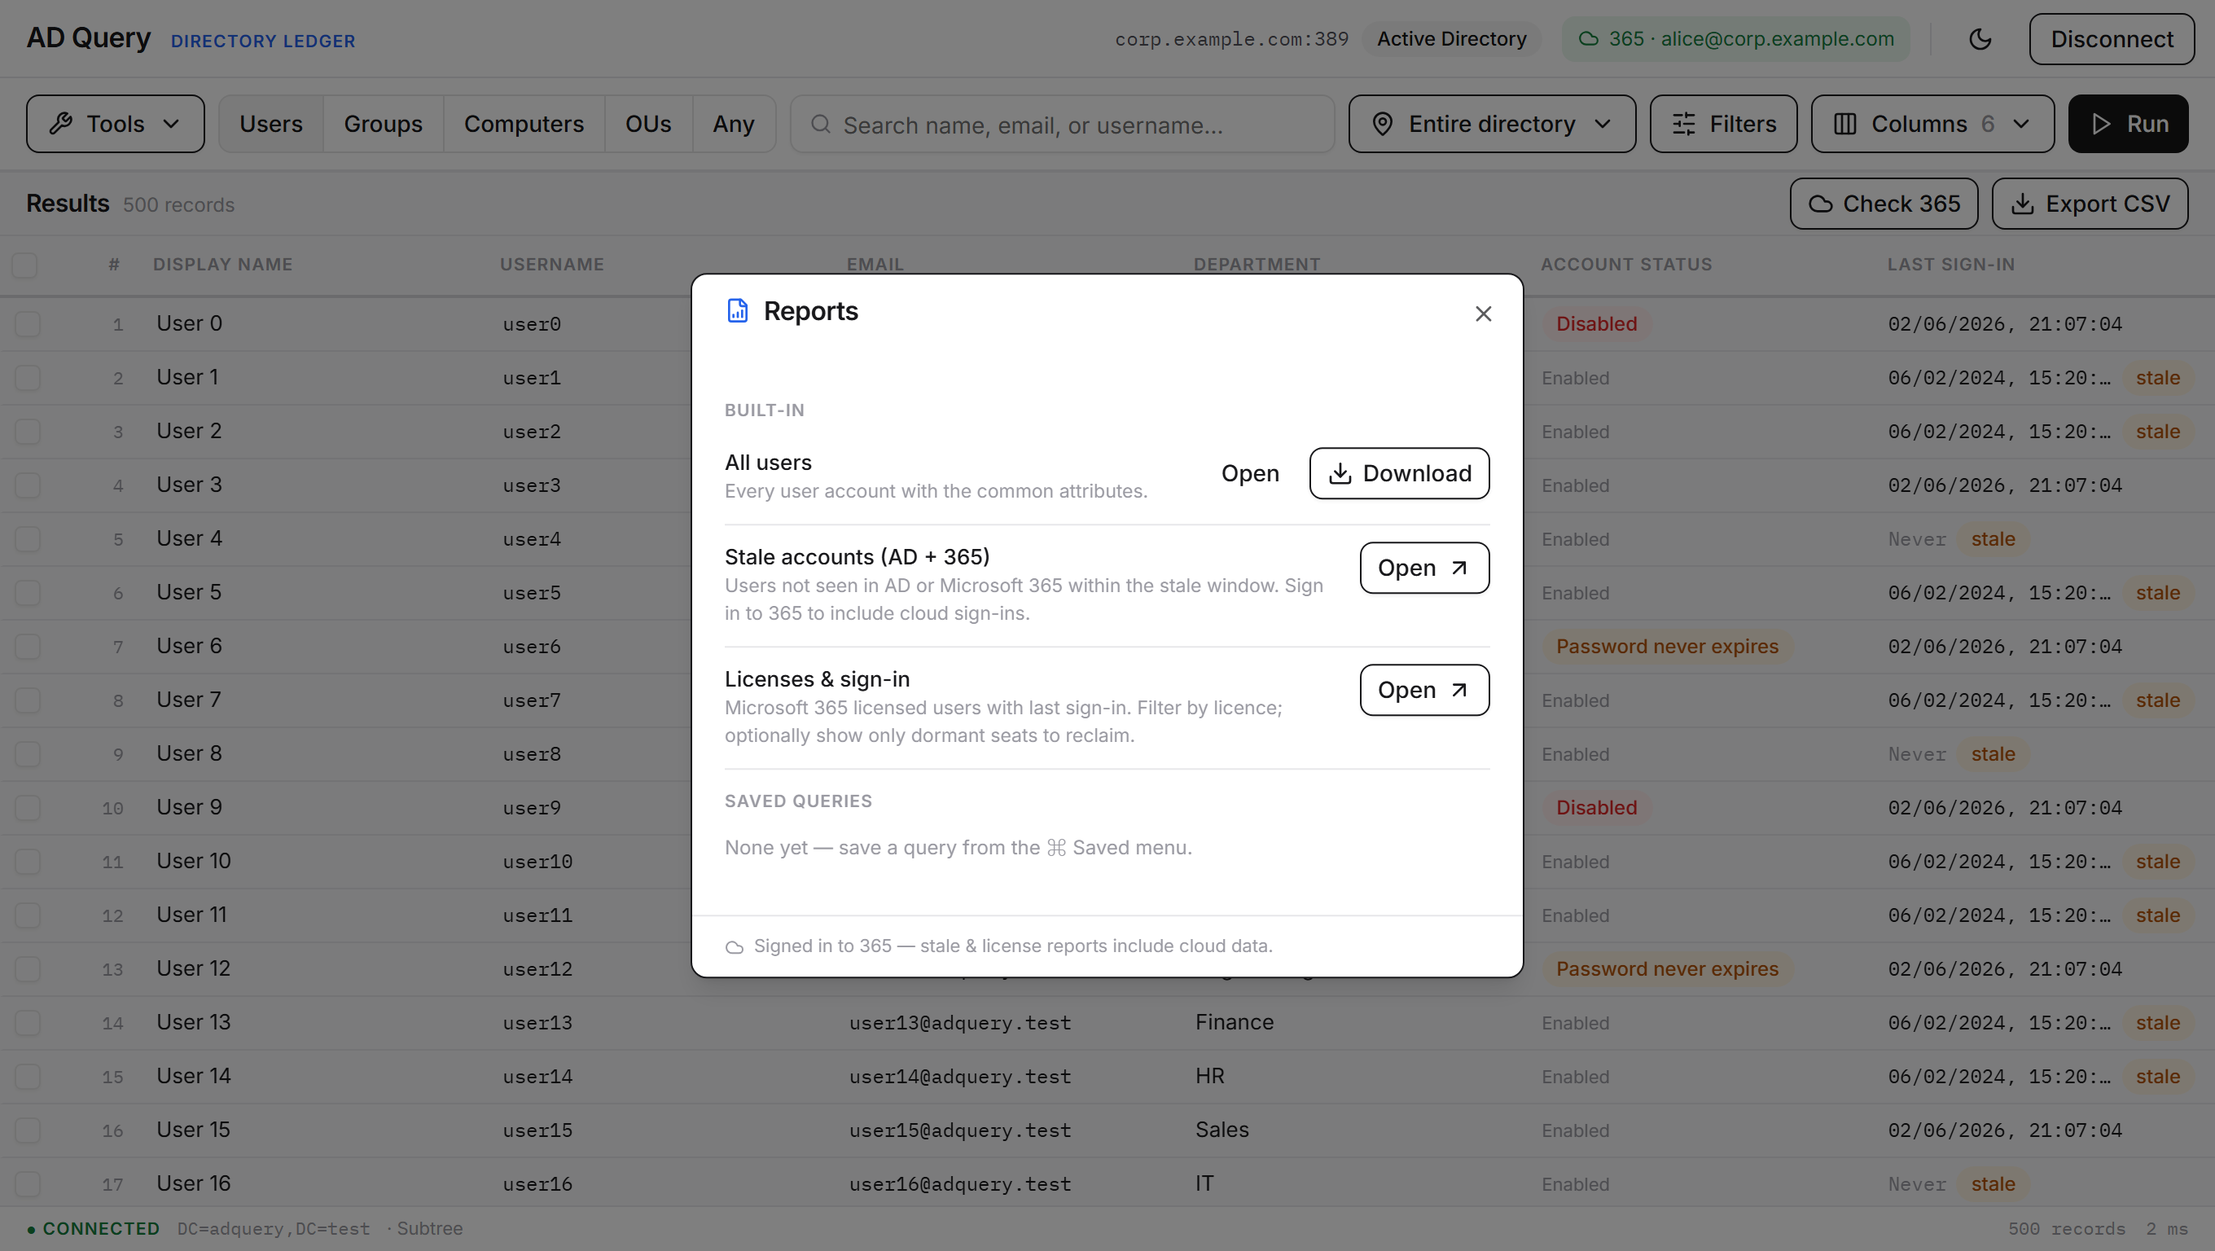
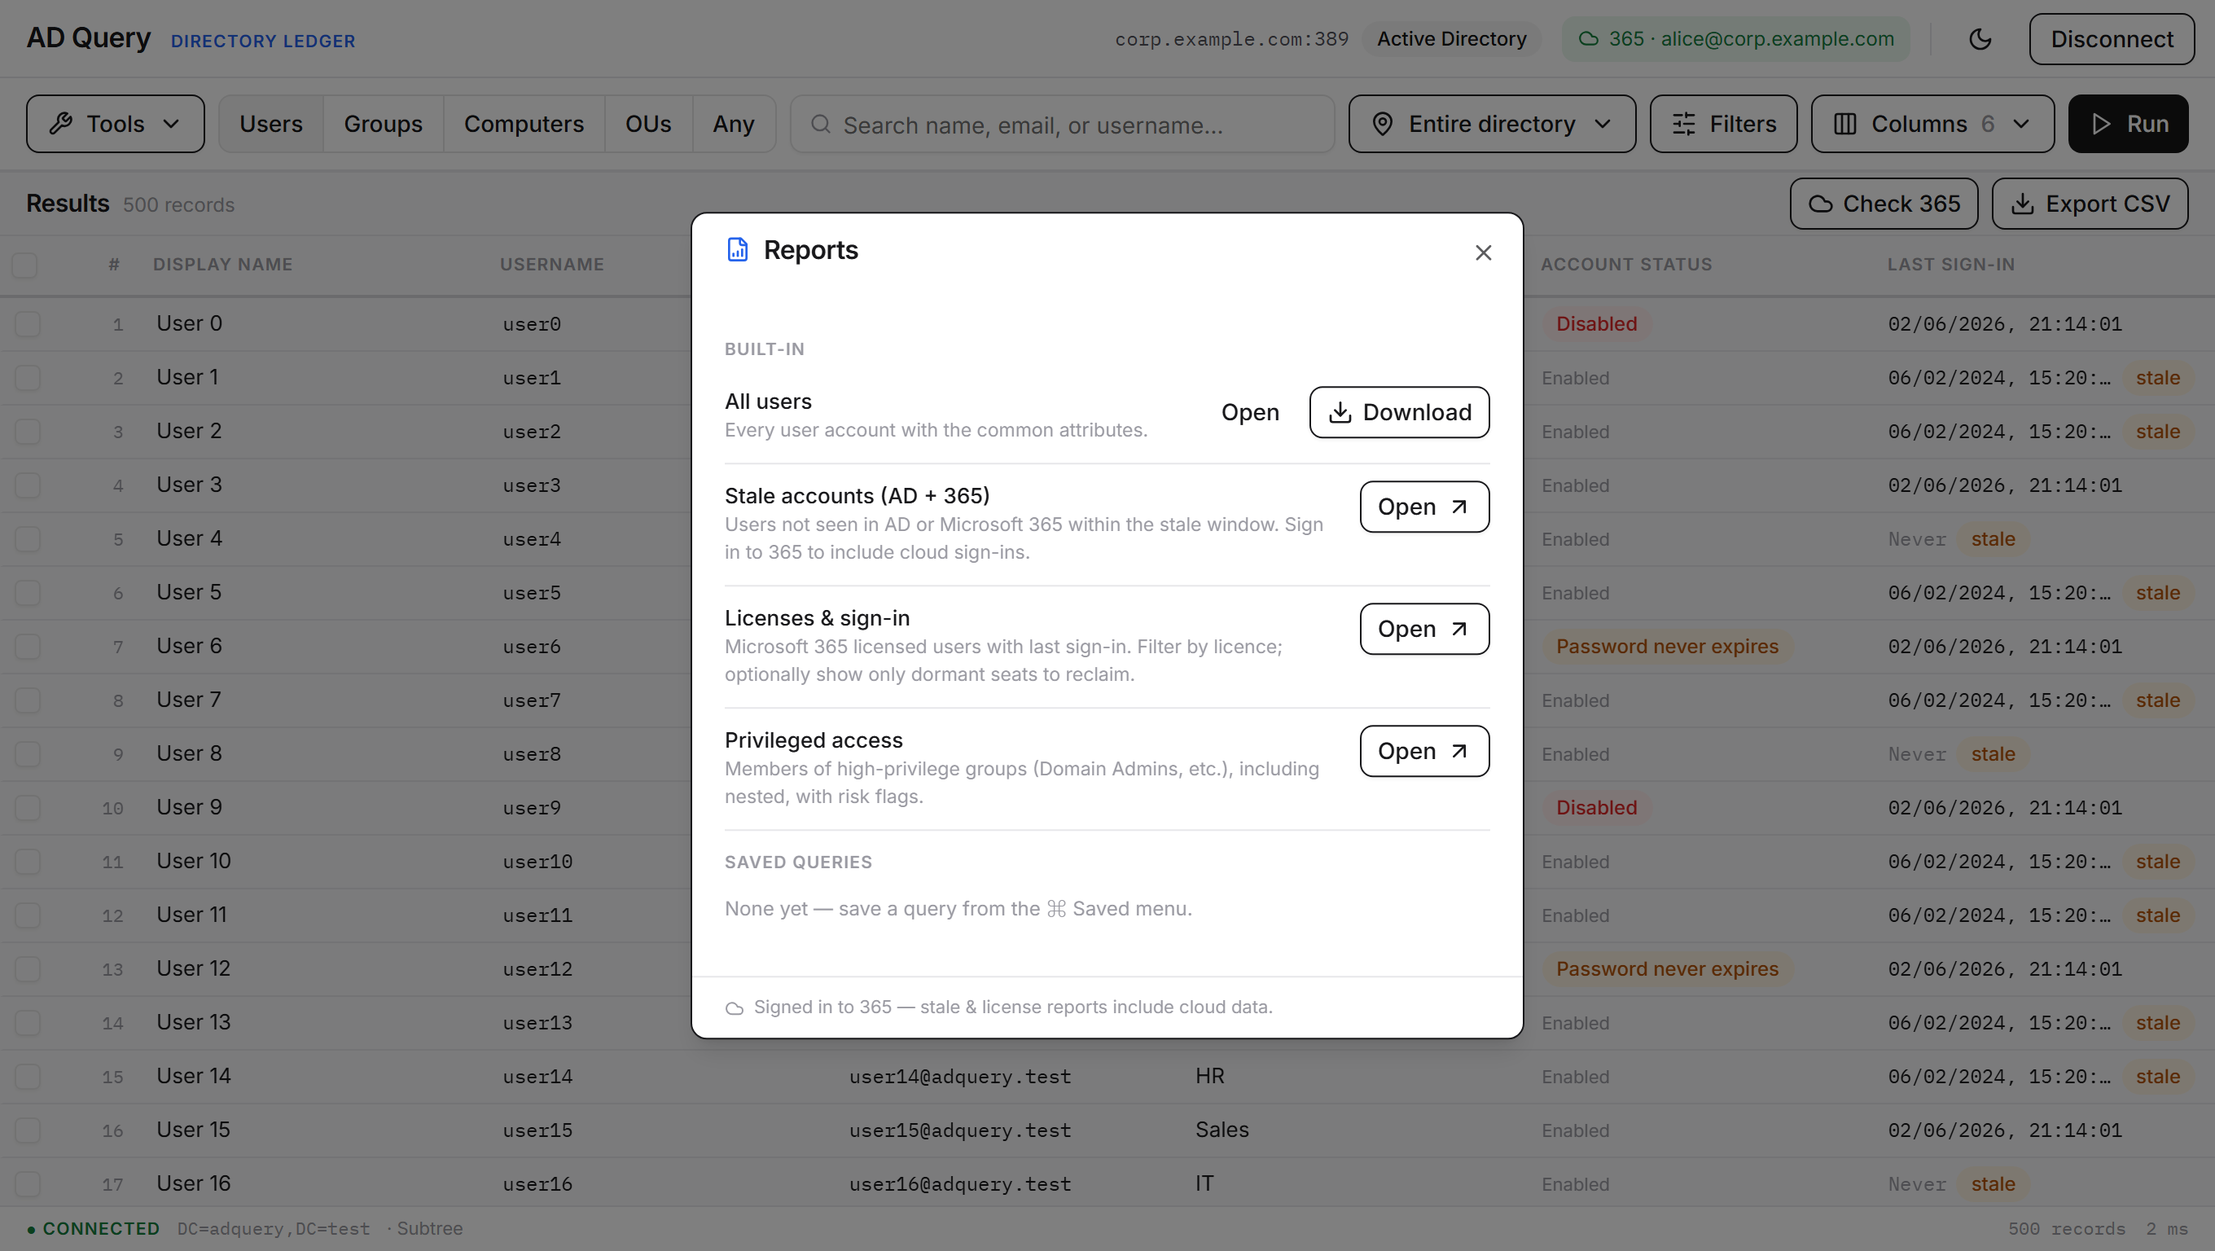
Add Privileged access review report
Members of high-privilege groups (Domain Admins, Backup Operators, etc.),
resolved transitively via the AD in-chain matching rule (LDAP_MATCHING_RULE_IN_CHAIN),
each scored with the shared risk engine and sorted highest-risk first.

- PrivilegedDialog.tsx: per-group member scan + nested resolution, dedupe by DN,
  risk rating per user, "High & Critical only" toggle, CSV export, read-only.
- risk.ts: export PRIVILEGED_GROUPS, riskTone, riskRank for reuse.
- reports.ts: "privileged" built-in report kind + entry.
- ReportsPanel.tsx: wire the Privileged access row + dialog (single-dialog gating).
- Inspector.tsx: restore StatusTone type import.
- screenshots.mjs: mock privileged-group + nested-member branches; 14-privileged capture.
- README: add Privileged access to the reports gallery.

Completes the four ScaleGuard PRD adoptions (accurate last-logon, risk flags,
privileged access review, evidence metadata on exports). Read-only throughout.

diff --git a/app/frontend/src/components/PrivilegedDialog.tsx b/app/frontend/src/components/PrivilegedDialog.tsx
@@ -1,0 +1,163 @@
+import { useEffect, useMemo, useState } from "react";
+import { Loader2, Download, RefreshCw } from "lucide-react";
+import { Search } from "../../wailsjs/go/main/App";
+import { ldap } from "../../wailsjs/go/models";
+import { Button } from "@/components/ui/button";
+import { Checkbox } from "@/components/ui/checkbox";
+import { StatusBadge } from "@/components/ui/status-badge";
+import { ErrorBanner } from "@/components/ui/error-banner";
+import { Dialog, DialogContent, DialogHeader, DialogFooter, DialogTitle, DialogDescription } from "@/components/ui/dialog";
+import { escapeLdapValue } from "../lib/filterBuilder";
+import { assessRisk, RISK_ATTRS, riskTone, riskRank, PRIVILEGED_GROUPS, type RiskAssessment } from "../lib/risk";
+import { combineLastSeen, daysSince, LastSeen } from "../lib/lastseen";
+import { rowsToCsv } from "../lib/bulk";
+import { downloadCsv } from "../lib/csv";
+
+interface Props { baseDN: string; onClose: () => void }
+
+interface PrivUser {
+  dn: string;
+  name: string;
+  sam: string;
+  groups: { group: string; direct: boolean }[];
+  risk: RiskAssessment;
+  seen: LastSeen;
+}
+
+const first = (e: ldap.Entry, a: string) => e.attributes?.[a]?.[0] ?? "";
+// AD "members (including nested groups)" extensible match (LDAP_MATCHING_RULE_IN_CHAIN).
+const IN_CHAIN = "1.2.840.113556.1.4.1941";
+
+export function PrivilegedDialog({ baseDN, onClose }: Props) {
+  const [phase, setPhase] = useState<"scanning" | "ready" | "error">("scanning");
+  const [users, setUsers] = useState<PrivUser[]>([]);
+  const [groupsFound, setGroupsFound] = useState(0);
+  const [riskyOnly, setRiskyOnly] = useState(false);
+  const [error, setError] = useState("");
+
+  useEffect(() => { scan(); }, []);
+
+  async function scan() {
+    setPhase("scanning"); setError("");
+    try {
+      const byUser = new Map<string, PrivUser & { attrs: Record<string, string[]> }>();
+      let found = 0;
+      for (const g of PRIVILEGED_GROUPS) {
+        const gres = await Search(ldap.SearchRequest.createFrom({
+          baseDN, scope: 2,
+          filter: `(&(objectClass=group)(|(sAMAccountName=${escapeLdapValue(g)})(cn=${escapeLdapValue(g)})))`,
+          attributes: ["member"], pageSize: 100, sizeLimit: 0,
+        }));
+        const grp = gres.entries?.[0];
+        if (!grp) continue;
+        found++;
+        const direct = new Set((grp.attributes?.member ?? []).map((d) => d.toLowerCase()));
+        const mres = await Search(ldap.SearchRequest.createFrom({
+          baseDN, scope: 2,
+          filter: `(&(objectCategory=person)(objectClass=user)(memberOf:${IN_CHAIN}:=${grp.dn}))`,
+          attributes: [...RISK_ATTRS, "displayName", "sAMAccountName", "userPrincipalName"], pageSize: 1000, sizeLimit: 0,
+        }));
+        for (const u of mres.entries ?? []) {
+          const key = u.dn.toLowerCase();
+          let rec = byUser.get(key);
+          if (!rec) {
+            rec = {
+              dn: u.dn, name: first(u, "displayName") || first(u, "sAMAccountName") || u.dn,
+              sam: first(u, "sAMAccountName") || first(u, "userPrincipalName"),
+              groups: [], risk: { level: "Low", flags: [] }, seen: combineLastSeen(),
+              attrs: u.attributes ?? {},
+            };
+            byUser.set(key, rec);
+          }
+          rec.groups.push({ group: g, direct: direct.has(key) });
+        }
+      }
+      const recs: PrivUser[] = [...byUser.values()].map((r) => ({
+        dn: r.dn, name: r.name, sam: r.sam, groups: r.groups,
+        risk: assessRisk(r.attrs),
+        seen: combineLastSeen(r.attrs.lastLogonTimestamp?.[0] || r.attrs.lastLogon?.[0]),
+      }));
+      recs.sort((a, b) => riskRank(b.risk.level) - riskRank(a.risk.level));
+      setUsers(recs); setGroupsFound(found); setPhase("ready");
+    } catch (e: any) { setError(String(e?.message ?? e)); setPhase("error"); }
+  }
+
+  const rows = useMemo(() => riskyOnly ? users.filter((u) => u.risk.level === "High" || u.risk.level === "Critical") : users, [users, riskyOnly]);
+  const risky = useMemo(() => users.filter((u) => u.risk.level === "High" || u.risk.level === "Critical").length, [users]);
+
+  function exportCsv() {
+    const cols = ["User", "Account", "Privileged via", "Last seen", "Days idle", "Risk", "Reasons"];
+    const out = rows.map((u) => ({
+      User: u.name, Account: u.sam,
+      "Privileged via": u.groups.map((g) => g.group + (g.direct ? "" : " (nested)")).join("; "),
+      "Last seen": u.seen.date ? u.seen.date.toISOString() : "Never",
+      "Days idle": daysSince(u.seen.date)?.toString() ?? "",
+      Risk: u.risk.level, Reasons: u.risk.flags.map((f) => f.label).join("; "),
+    }));
+    downloadCsv(`adquery-privileged-${new Date().toISOString().slice(0, 10)}.csv`, rowsToCsv(cols, out));
+  }
+
+  return (
+    <Dialog open onOpenChange={(o) => { if (!o) onClose(); }}>
+      <DialogContent className="sm:max-w-[720px] max-h-[88vh] overflow-hidden flex flex-col p-0">
+        <DialogHeader className="px-5 py-3.5 text-left border-b border-line">
+          <DialogTitle className="display text-[16px] font-semibold">Privileged access review</DialogTitle>
+          <DialogDescription className="text-[12px] text-ink-3">Members of high-privilege groups (including nested), with risk flags.</DialogDescription>
+        </DialogHeader>
+
+        <div className="flex items-center gap-3 px-5 py-3 border-b border-line">
+          <label className="flex items-center gap-2 text-[12.5px] cursor-pointer">
+            <Checkbox checked={riskyOnly} onCheckedChange={(v) => setRiskyOnly(!!v)} disabled={phase !== "ready"} /> High &amp; Critical only
+          </label>
+          <Button variant="ghost" size="sm" className="ml-auto" onClick={scan} disabled={phase === "scanning"}>
+            {phase === "scanning" ? <Loader2 size={13} className="animate-spin" /> : <RefreshCw size={13} />} Rescan
+          </Button>
+        </div>
+
+        <div className="overflow-auto px-5 py-4 min-h-[160px]">
+          {phase === "scanning" && <div className="flex items-center gap-2 text-[12.5px] text-ink-2"><Loader2 size={14} className="animate-spin" /> Resolving privileged group membership (incl. nested)…</div>}
+          {phase === "error" && <ErrorBanner error={error} />}
+
+          {phase === "ready" && users.length === 0 && (
+            <div className="text-[12.5px] text-ink-2 space-y-2">
+              <p className="font-medium text-ink">No privileged users found.</p>
+              <p>None of the default privileged groups were found with members in this location — common against a non-AD test directory, or the groups live in a different OU (widen “Search in”).</p>
+            </div>
+          )}
+
+          {phase === "ready" && users.length > 0 && (
+            <>
+              <div className="flex items-baseline gap-2 mb-3">
+                <span className="display text-[20px] font-semibold">{rows.length}</span>
+                <span className="text-[12.5px] text-ink-2">{riskyOnly ? "high-risk " : ""}privileged users · {groupsFound} groups · {risky} High/Critical</span>
+              </div>
+              <table className="w-full text-[12px] tabular-nums">
+                <thead><tr className="border-b border-line-strong">
+                  <th className="text-left eyebrow py-1.5">User</th><th className="text-left eyebrow py-1.5">Privileged via</th><th className="text-left eyebrow py-1.5">Last seen</th><th className="text-right eyebrow py-1.5">Risk</th>
+                </tr></thead>
+                <tbody>
+                  {rows.slice(0, 200).map((u) => (
+                    <tr key={u.dn} className="border-b border-line align-top">
+                      <td className="py-1.5">{u.name}<span className="ml-1.5 text-[10.5px] text-ink-3 font-mono">{u.sam}</span></td>
+                      <td className="py-1.5 text-ink-2">{u.groups.map((g) => g.group + (g.direct ? "" : " (nested)")).join(", ")}</td>
+                      <td className="py-1.5 font-mono">{u.seen.date ? u.seen.date.toISOString().slice(0, 10) : "Never"}</td>
+                      <td className="text-right py-1.5"><StatusBadge tone={riskTone(u.risk.level)} title={u.risk.flags.map((f) => f.label).join(", ")}>{u.risk.level}</StatusBadge></td>
+                    </tr>
+                  ))}
+                  {rows.length === 0 && <tr><td colSpan={4} className="py-6 text-center text-ink-3">No High/Critical privileged users. 🎉</td></tr>}
+                </tbody>
+              </table>
+              {rows.length > 200 && <p className="text-[11px] mt-2 text-ink-3">Showing first 200 of {rows.length} — export for the full list.</p>}
+            </>
+          )}
+        </div>
+
+        <DialogFooter className="px-5 py-3.5 border-t border-line">
+          <p className="text-[11px] flex-1 min-w-0 mr-auto text-left text-ink-3">Nested membership resolved via the AD in-chain matching rule. Read-only.</p>
+          <Button variant="outline" onClick={onClose}>Close</Button>
+          <Button className="px-5" onClick={exportCsv} disabled={phase !== "ready" || rows.length === 0}><Download size={14} /> Export {rows.length} users</Button>
+        </DialogFooter>
+      </DialogContent>
+    </Dialog>
+  );
+}

diff --git a/app/frontend/src/components/ReportsPanel.tsx b/app/frontend/src/components/ReportsPanel.tsx
@@ -8,6 +8,7 @@ import { loadSavedQueries } from "../lib/savedQueries";
 import { buildCsv, downloadCsv, DEFAULT_CSV_OPTIONS } from "../lib/csv";
 import { ReclaimDialog } from "./ReclaimDialog";
 import { StaleReportDialog } from "./StaleReportDialog";
+import { PrivilegedDialog } from "./PrivilegedDialog";
 import { Dialog, DialogContent, DialogHeader, DialogTitle } from "@/components/ui/dialog";
 import { Button } from "@/components/ui/button";
 import { toast } from "sonner";
@@ -24,6 +25,7 @@ export function ReportsPanel({ req, isAD, onOpen, onClose }: Props) {
   const [busy, setBusy] = useState<string | null>(null);
   const [showReclaim, setShowReclaim] = useState(false);
   const [showStale, setShowStale] = useState(false);
+  const [showPriv, setShowPriv] = useState(false);
   const [signedIn365, setSignedIn365] = useState(false);
   const saved = loadSavedQueries();
 
@@ -46,7 +48,7 @@ export function ReportsPanel({ req, isAD, onOpen, onClose }: Props) {
   // Only one dialog at a time: hide Reports while a sub-report (Reclaim/Stale)
   // is open so the two Radix dialogs don't stack. ReportsPanel stays mounted, so
   // closing the sub-report returns the user to the Reports list.
-  const subOpen = showReclaim || showStale;
+  const subOpen = showReclaim || showStale || showPriv;
 
   return (
     <>
@@ -63,6 +65,8 @@ export function ReportsPanel({ req, isAD, onOpen, onClose }: Props) {
                 return <ReportRow key={r.id} name={r.name} description={r.description} actions={<Button variant="outline" size="sm" onClick={() => setShowReclaim(true)}>Open <ArrowUpRight size={13} /></Button>} />;
               if (r.kind === "stale")
                 return <ReportRow key={r.id} name={r.name} description={r.description} actions={<Button variant="outline" size="sm" onClick={() => setShowStale(true)}>Open <ArrowUpRight size={13} /></Button>} />;
+              if (r.kind === "privileged")
+                return <ReportRow key={r.id} name={r.name} description={r.description} actions={<Button variant="outline" size="sm" onClick={() => setShowPriv(true)}>Open <ArrowUpRight size={13} /></Button>} />;
               const q = resolveQuery(r, isAD, req.baseDN);
               return <ReportRow key={r.id} name={r.name} description={r.description} actions={<>
                 <Button variant="ghost" size="sm" onClick={() => onOpen(q)}>Open</Button>
@@ -92,6 +96,7 @@ export function ReportsPanel({ req, isAD, onOpen, onClose }: Props) {
 
       {showReclaim && <ReclaimDialog isAD={isAD} baseDN={req.baseDN} onClose={() => setShowReclaim(false)} />}
       {showStale && <StaleReportDialog isAD={isAD} baseDN={req.baseDN} onOpen={onOpen} onClose={() => setShowStale(false)} />}
+      {showPriv && <PrivilegedDialog baseDN={req.baseDN} onClose={() => setShowPriv(false)} />}
     </>
   );
 }

diff --git a/app/frontend/src/lib/risk.ts b/app/frontend/src/lib/risk.ts
@@ -1,5 +1,6 @@
 import { decodeUAC } from "./format";
 import { combineLastSeen, daysSince } from "./lastseen";
+import type { StatusTone } from "@/components/ui/status-badge";
 
 // Turns raw AD attributes into plain-language risk flags + an overall rating.
 // Pure (no I/O) so it's easy to unit-test and reuse anywhere a user's
@@ -16,15 +17,21 @@ export const RISK_ATTRS = [
   "manager", "department",
 ];
 
-// Default privileged groups (matched against memberOf DNs).
-const PRIVILEGED = [
+// Default privileged groups (matched against memberOf DNs / used by the
+// privileged-access review).
+export const PRIVILEGED_GROUPS = [
   "Domain Admins", "Enterprise Admins", "Schema Admins", "Administrators",
   "Account Operators", "Server Operators", "Backup Operators", "Print Operators",
   "Group Policy Creator Owners", "DnsAdmins",
 ];
+const PRIVILEGED = PRIVILEGED_GROUPS;
 
 const ORDER: RiskLevel[] = ["Low", "Medium", "High", "Critical"];
 const higher = (a: RiskLevel, b: RiskLevel): RiskLevel => (ORDER.indexOf(a) >= ORDER.indexOf(b) ? a : b);
+
+// Map a risk level to a status-badge tone (shared by the inspector + reviews).
+export const riskTone = (l: RiskLevel): StatusTone => (l === "Low" ? "neutral" : l === "Medium" ? "warning" : "critical");
+export const riskRank = (l: RiskLevel): number => ORDER.indexOf(l);
 
 const val = (attrs: Record<string, string[]>, k: string) => attrs[k]?.[0] ?? "";
 

diff --git a/app/frontend/src/components/Inspector.tsx b/app/frontend/src/components/Inspector.tsx
@@ -3,15 +3,13 @@ import { X, Loader2, RefreshCw } from "lucide-react";
 import { ldap, type adtypes } from "../../wailsjs/go/models";
 import { GetACL, AccurateLastLogon, Search } from "../../wailsjs/go/main/App";
 import { formatValue } from "../lib/format";
-import { assessRisk, RISK_ATTRS, type RiskLevel } from "../lib/risk";
+import { assessRisk, RISK_ATTRS, riskTone } from "../lib/risk";
 import { Button } from "@/components/ui/button";
 import { Badge } from "@/components/ui/badge";
 import { Tabs, TabsList, TabsTrigger } from "@/components/ui/tabs";
 import { StatusBadge, type StatusTone } from "@/components/ui/status-badge";
 import { ErrorBanner } from "@/components/ui/error-banner";
 import { labelFor } from "@/lib/attrLabels";
-
-const riskTone = (l: RiskLevel): StatusTone => (l === "Low" ? "neutral" : l === "Medium" ? "warning" : "critical");
 
 interface Props {
   entry: ldap.Entry | null;

diff --git a/app/frontend/src/lib/reports.ts b/app/frontend/src/lib/reports.ts
@@ -4,7 +4,7 @@ import { OBJECT_TYPES, filterFor } from "./objectTypes";
 // A report is a named, repeatable recipe you run with one click to download a
 // CSV. Built-ins cover the common asks; your saved queries also appear as
 // downloadable reports.
-export type ReportKind = "query" | "stale" | "license";
+export type ReportKind = "query" | "stale" | "license" | "privileged";
 
 export interface Report {
   id: string;
@@ -29,6 +29,10 @@ export const BUILTIN_REPORTS: Report[] = [
   {
     id: "licenses", name: "Licenses & sign-in", kind: "license",
     description: "Microsoft 365 licensed users with last sign-in. Filter by licence; optionally show only dormant seats to reclaim.",
+  },
+  {
+    id: "privileged", name: "Privileged access", kind: "privileged",
+    description: "Members of high-privilege groups (Domain Admins, etc.), including nested, with risk flags.",
   },
 ];
 

diff --git a/README.md b/README.md
@@ -24,9 +24,9 @@ Connect (auto-detects your domain → sign in as you, no password) and the resul
 
 Reports — one-click run/download recipes, **unused-license reclamation** (licensed users dormant in AD *and* 365), stale-account review, and Microsoft 365 sign-in:
 
-| Reports | Licenses & sign-in | Stale accounts | 365 sign-in |
-|---|---|---|---|
-| ![Reports](docs/screenshots/08-reports.png) | ![Licenses](docs/screenshots/09-reclaim.png) | ![Stale](docs/screenshots/10-stale.png) | ![365](docs/screenshots/11-m365-signin.png) |
+| Reports | Privileged access | Licenses & sign-in | Stale accounts | 365 sign-in |
+|---|---|---|---|---|
+| ![Reports](docs/screenshots/08-reports.png) | ![Privileged](docs/screenshots/14-privileged.png) | ![Licenses](docs/screenshots/09-reclaim.png) | ![Stale](docs/screenshots/10-stale.png) | ![365](docs/screenshots/11-m365-signin.png) |
 
 > Regenerate with `cd app/frontend && npm run shots` (builds the app, serves it, and drives the journey via Playwright into `docs/screenshots/`).
 
